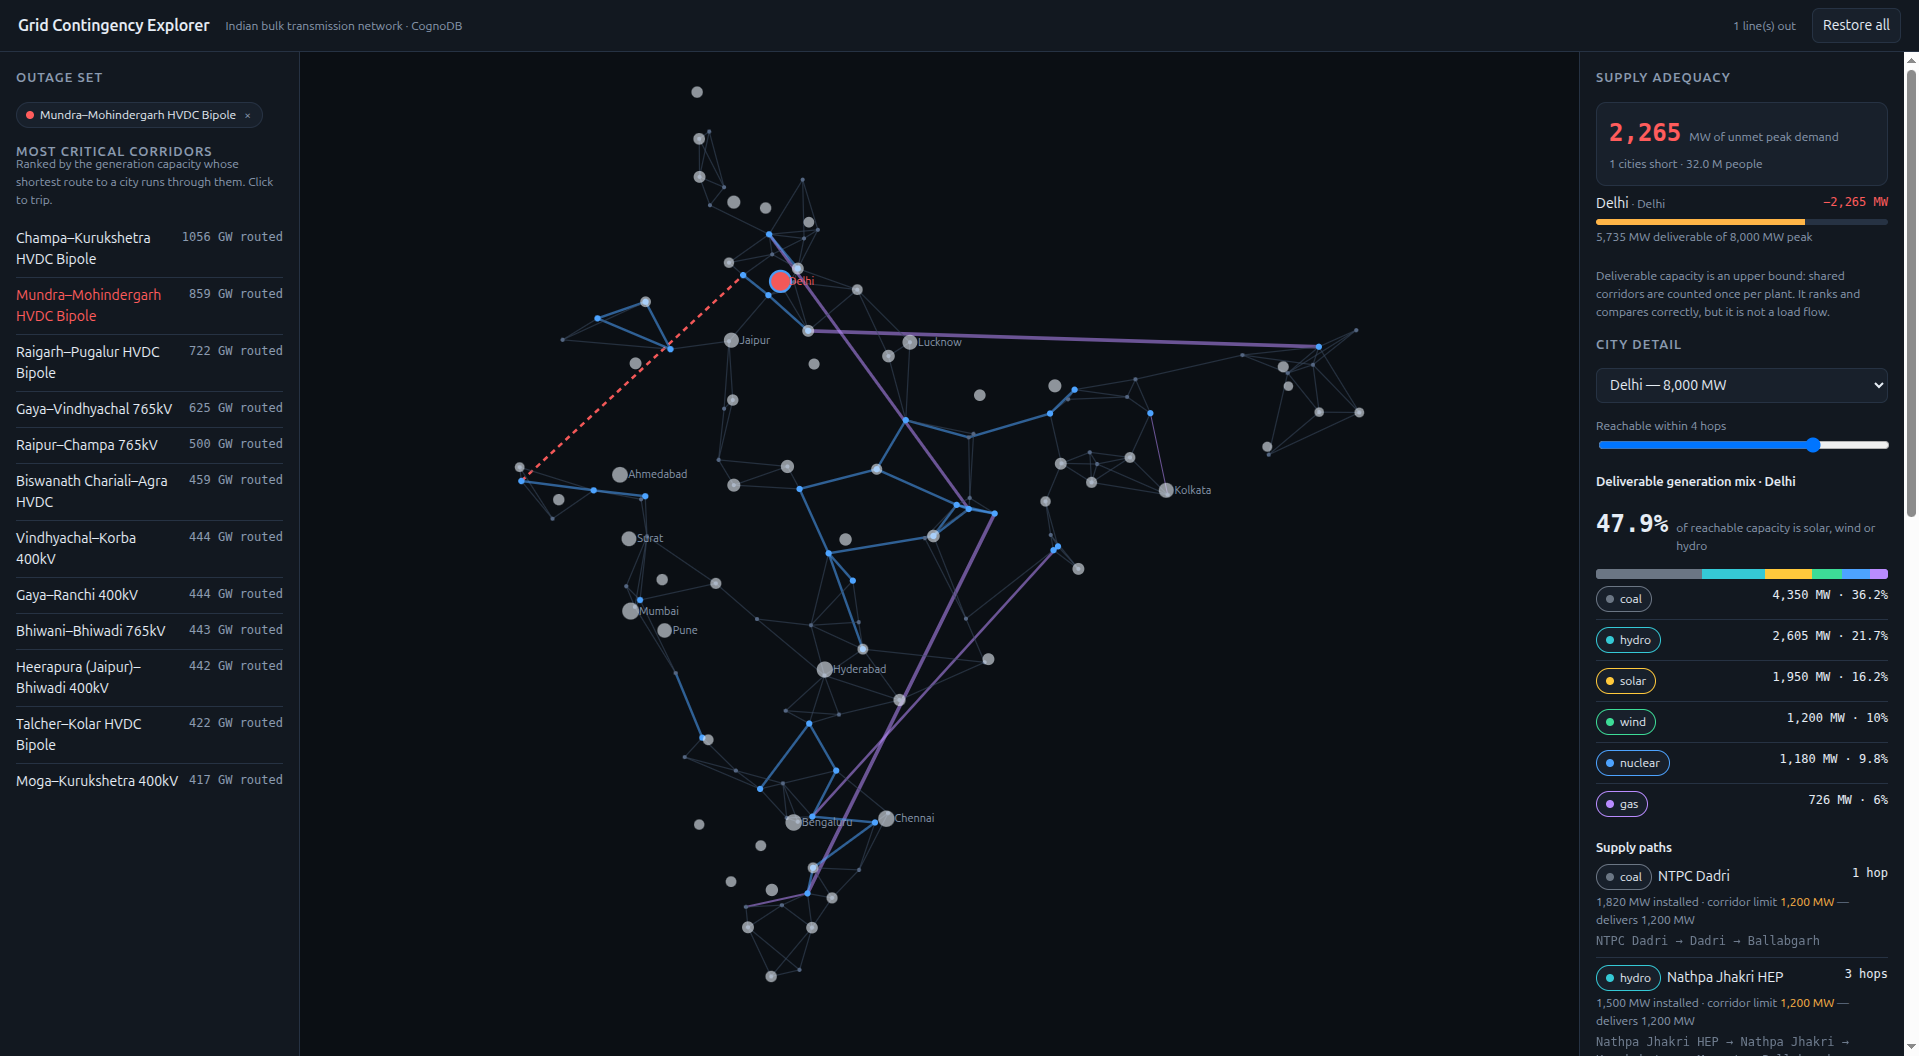
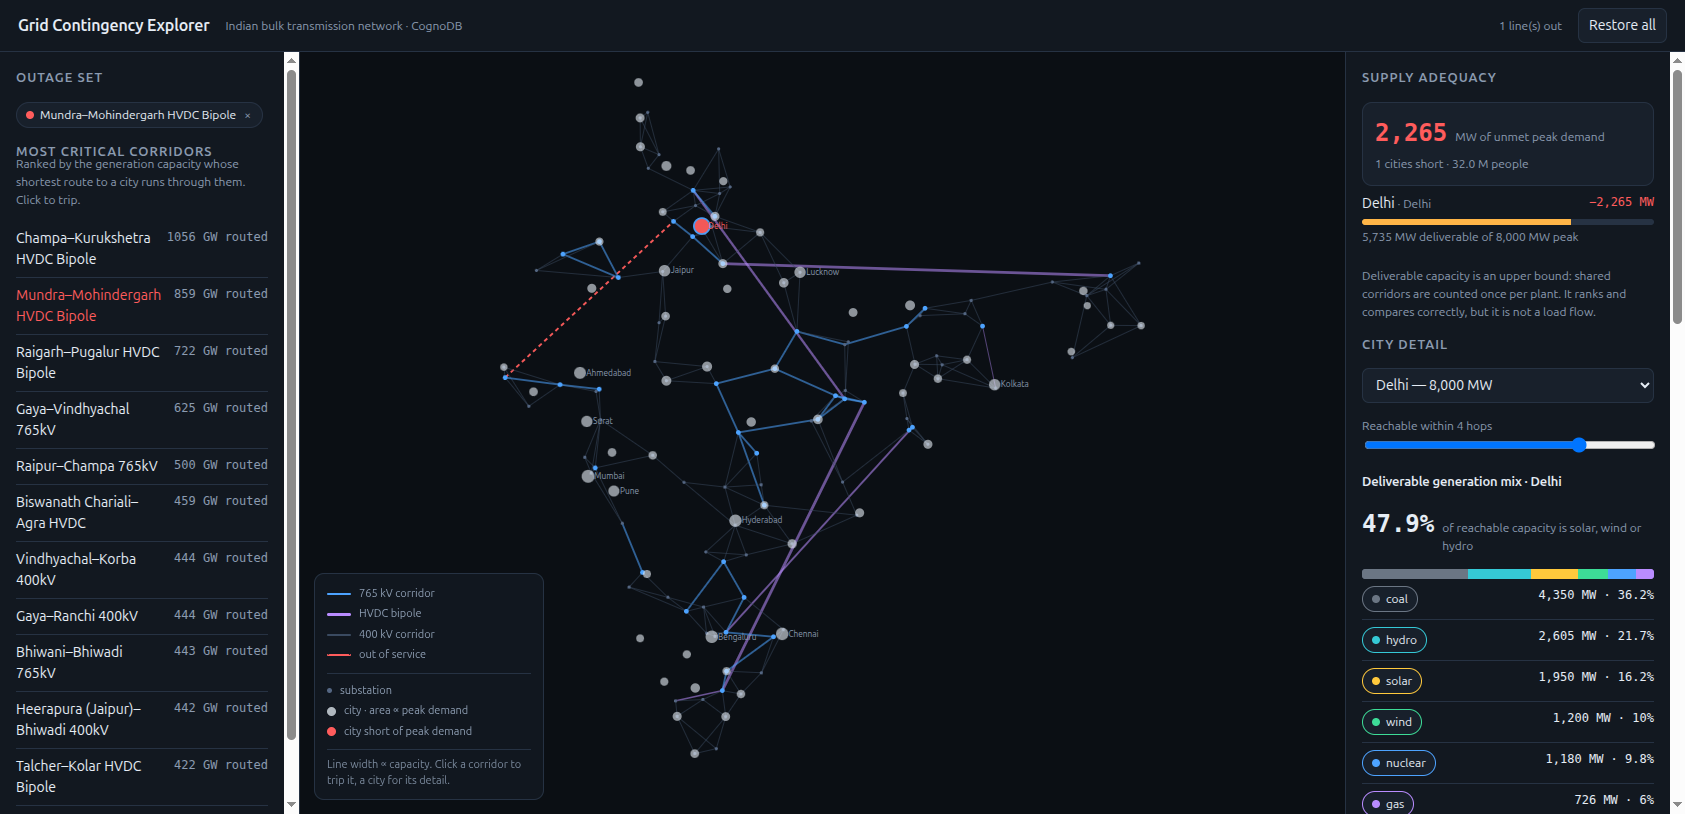
Add legend, demo links and screenshots for the brief
Audited the repo against the take-home brief; this closes what was
missing or stale.

Deliverables (§6):
- README carries the live Vercel and Render URLs, the API docs link and
  a cold-start warning, instead of burying the demo behind the deploy
  instructions. Verification snippet runs against the real pair.
- Three UI screenshots (at rest, tripped, supply-path panel) rather than
  one.
- docs/DEMO_SCRIPT.md with the shot list for the screen recording.
- Track Dockerfile and .dockerignore. They were untracked but are the
  single-service deploy path the README describes.

UI (§5.2):
- The map encoded five variables with nothing explaining them. Legend now
  covers line colour, width, dot size and the at-risk state.

Fixes:
- Panels.tsx printed a bare {3} for the adequacy hop limit -> ADEQUACY_HOPS,
  with a note that it mirrors the backend constant.
- queries.py docstring still described the old size(c) guard; code has used
  length(p) since the dialect fixes. Also spelled out that the only string
  composition is of fixed module constants, never request data (§5.1).

diff --git a/frontend/src/components/GridMap.tsx b/frontend/src/components/GridMap.tsx
@@ -30,6 +30,35 @@ const W = 1000
 const H = 1100
 const PAD = 40
 
+const HVDC = '#b98cff'
+const EHV = '#4da3ff'
+const AC400 = '#3a4a60'
+
+/**
+ * The map encodes five variables at once -- line colour, line thickness, dot
+ * size, dot colour and the dashed stroke -- and none of them is self-evident to
+ * someone who has not read the README. The legend is the difference between a
+ * picture and a chart.
+ */
+function Legend() {
+  return (
+    <div className="legend" aria-hidden="true">
+      <div className="legend-row"><span className="swatch" style={{ background: EHV }} />765 kV corridor</div>
+      <div className="legend-row"><span className="swatch" style={{ background: HVDC }} />HVDC bipole</div>
+      <div className="legend-row"><span className="swatch" style={{ background: AC400 }} />400 kV corridor</div>
+      <div className="legend-row">
+        <span className="swatch dashed" />out of service
+      </div>
+      <div className="legend-sep" />
+      <div className="legend-row"><span className="dot-swatch" style={{ background: '#546682', width: 5, height: 5 }} />substation</div>
+      <div className="legend-row"><span className="dot-swatch" style={{ background: 'rgba(230,237,245,0.75)' }} />city · area ∝ peak demand</div>
+      <div className="legend-row"><span className="dot-swatch" style={{ background: 'var(--danger)' }} />city short of peak demand</div>
+      <div className="legend-sep" />
+      <div className="legend-hint">Line width ∝ capacity. Click a corridor to trip it, a city for its detail.</div>
+    </div>
+  )
+}
+
 /**
  * Plain SVG rather than a tile map: no API key, no external network request at
  * runtime, and the geometry is the point here — the graph, not the basemap.
@@ -58,12 +87,13 @@ export default function GridMap({
 
   const strokeFor = (l: MapLine) => {
     if (tripped.has(l.line_id)) return 'var(--danger)'
-    if (l.hvdc) return '#b98cff'
-    if (l.voltage_kv >= 765) return '#4da3ff'
-    return '#3a4a60'
+    if (l.hvdc) return HVDC
+    if (l.voltage_kv >= 765) return EHV
+    return AC400
   }
 
   return (
+    <>
     <svg
       viewBox={`0 0 ${W} ${H}`}
       style={{ width: '100%', height: '100%', display: 'block' }}
@@ -111,7 +141,7 @@ export default function GridMap({
             <circle
               key={s.id} cx={p.x} cy={p.y}
               r={s.voltage_kv >= 765 ? 3.4 : 2.2}
-              fill={s.voltage_kv >= 765 ? '#4da3ff' : '#546682'}
+              fill={s.voltage_kv >= 765 ? EHV : '#546682'}
             >
               <title>{s.name} · {s.voltage_kv} kV · {s.state}</title>
             </circle>
@@ -150,5 +180,7 @@ export default function GridMap({
         })}
       </g>
     </svg>
+    <Legend />
+    </>
   )
 }

diff --git a/frontend/src/app/globals.css b/frontend/src/app/globals.css
@@ -151,3 +151,30 @@ ul.list li:last-child { border-bottom: 0; }
 }
 
 .empty { text-align: center; padding: 26px 12px; color: var(--muted); }
+
+/* Map legend. Overlaid in HTML rather than drawn in the SVG so it keeps a fixed
+   pixel size regardless of the viewBox scaling. */
+.legend {
+  position: absolute;
+  left: 14px;
+  bottom: 14px;
+  padding: 10px 12px;
+  background: rgba(18, 24, 32, 0.9);
+  border: 1px solid var(--line);
+  border-radius: var(--radius);
+  backdrop-filter: blur(4px);
+  font-size: 11px;
+  color: var(--muted);
+  pointer-events: none;
+  max-width: 230px;
+}
+.legend-row { display: flex; align-items: center; gap: 8px; padding: 2px 0; }
+.legend-sep { height: 1px; background: var(--line); margin: 7px 0; }
+.legend-hint { line-height: 1.45; opacity: 0.85; }
+.legend .swatch { width: 24px; height: 2.5px; border-radius: 2px; flex: none; }
+.legend .swatch.dashed {
+  background: none;
+  border-top: 2.5px dashed var(--danger);
+  height: 0;
+}
+.legend .dot-swatch { width: 9px; height: 9px; border-radius: 50%; flex: none; }

diff --git a/frontend/src/components/Panels.tsx b/frontend/src/components/Panels.tsx
@@ -2,6 +2,10 @@
 
 import type { AdequacyRow, CriticalLine, FuelMixRow, IslandedRow, SupplyPath } from '@/lib/types'
 
+/** Mirrors ADEQUACY_HOPS in backend/app/queries.py -- the depth the adequacy
+ *  sweep searches to. Stated in the copy so "secure" is not an unqualified claim. */
+const ADEQUACY_HOPS = 3
+
 const FUEL_COLOR: Record<string, string> = {
   coal: 'var(--coal)', lignite: 'var(--lignite)', gas: 'var(--gas)',
   nuclear: 'var(--nuclear)', hydro: 'var(--hydro)', solar: 'var(--solar)',
@@ -56,7 +60,7 @@ export function AdequacyPanel({
         </div>
         <p className="small muted" style={{ margin: '6px 0 0' }}>
           The network re-routes around this outage: every city still has enough
-          deliverable capacity within {3} hops to cover its peak demand.
+          deliverable capacity within {ADEQUACY_HOPS} hops to cover its peak demand.
         </p>
       </div>
     )

diff --git a/backend/app/queries.py b/backend/app/queries.py
@@ -5,7 +5,12 @@ Three conventions hold throughout:
  1. Nothing is interpolated. All user input arrives as bound parameters. The one
     thing Cypher genuinely cannot parameterise is the upper bound of a
     variable-length pattern (``*0..$n`` is a syntax error), so the bound is a
-    literal and the caller narrows it with ``size(c) <= $maxHops``.
+    literal and the caller narrows it with ``length(p) <= $maxHops``.
+
+    The only Cypher assembled from strings is the composition of the module
+    constants below (``_BOTTLENECK``, ``_SURVIVING``) into the statements. Those
+    are fixed source text, never request data: no value that arrives over HTTP
+    reaches a query except as a bound parameter.
 
  2. ``CONNECTS`` is stored in one direction but always traversed undirected
     (``-[c:CONNECTS*0..5]-``), because power flows either way along a line.

diff --git a/README.md b/README.md
@@ -7,7 +7,45 @@ longer be supplied to their peak demand — and which fuels they lose access to.
 over Bolt. **Next.js** front end, shipped as a static export. Deployed as two
 services: the frontend on **Vercel**, the API on **Render**.
 
+## Live demo
+
+| | |
+|---|---|
+| **Application** | <https://grid-contingency-explorer.vercel.app/> |
+| **API** | <https://grid-contigency-explorer.onrender.com/api/health> |
+| **Interactive API docs** | <https://grid-contigency-explorer.onrender.com/docs> |
+| **Screen recording** | _add the link here_ · shot list: [`docs/DEMO_SCRIPT.md`](docs/DEMO_SCRIPT.md) |
+
+The API runs on Render's free plan, which suspends a service after ~15 minutes
+of inactivity. **The first request after an idle period can take up to a
+minute** while the container starts; the UI says so rather than showing an
+unexplained spinner, and a scheduled workflow pings `/api/health` every ten
+minutes to keep it resident. Everything after the first request is fast.
+
+> One spelling trap, called out so nobody assumes a broken link: the Render
+> service is `grid-contigency-explorer` — missing an "n", a typo inherited from
+> the repository name — while the Vercel project is `grid-contingency-explorer`.
+> Both URLs above are correct as written.
+
+The database is a live CognoDB `c0` instance and will be kept running.
+
+## Screenshots
+
+**At rest — the whole network in service, every city supplied.**
+
+![The explorer at rest, no outages](docs/screenshot-rest.png)
+
+**Mundra–Mohindergarh HVDC tripped — Delhi goes 2,265 MW short.** The corridor
+is red and dashed, Delhi turns red on the map, and the coal share of what Delhi
+can draw on falls from 41.4% to 36.2%.
+
 ![The explorer with the Mundra–Mohindergarh HVDC bipole tripped](docs/screenshot-tripped.png)
+
+**The surviving routes.** Each row is one generator that can still reach Delhi:
+the fuel, the hop count, the bottleneck corridor on the best route, and the
+route itself. This panel is the variable-length traversal made visible.
+
+![Supply paths into Delhi after the outage](docs/screenshot-paths.png)
 
 ---
 
@@ -226,6 +264,9 @@ For development with hot reload on both sides, `./run-dev.sh` runs uvicorn on
   it, the bottleneck on each, and its deliverable fuel mix.
 - **The left panel ranks corridors** by the generation routed through them.
   Clicking one trips it.
+- **The legend, bottom left of the map**, decodes the five things the map encodes
+  at once: line colour (voltage class, HVDC, out of service), line width
+  (capacity), dot size (peak demand) and dot colour (short of demand).
 - Good ones to try: *Mundra–Mohindergarh HVDC* (strands Gujarat's coal from
   Delhi — 2,265 MW short), *Ballabgarh–Bhiwadi 400kV* (the largest single-line
   shortfall in the network), *Champa–Kurukshetra HVDC* (the most heavily loaded
@@ -250,7 +291,9 @@ backend/
 frontend/
   src/lib/api.ts     Typed fetch client; one place where an error becomes a state
   src/app/page.tsx   Client orchestration: outage set, selected city, hop limit
-  src/components/    GridMap (SVG) · Panels
+  src/components/    GridMap (SVG + legend) · Panels
+Dockerfile           Node build stage + Python runtime, for the single-service run
+render.yaml          Render Blueprint for the API service
 ```
 
 **One driver per process.** The Neo4j driver is a connection pool, not a
@@ -268,7 +311,10 @@ container that crash-loops out of sight.
 
 **No string-built Cypher.** Every parameter is bound. The one thing Cypher cannot
 parameterise — the upper bound of a variable-length pattern — is a literal in the
-query, narrowed by `length(p) <= $maxHops`.
+query, narrowed by `length(p) <= $maxHops`. `queries.py` does compose statements
+from two module constants (`_BOTTLENECK`, `_SURVIVING`) to avoid repeating the
+same fold in five places; those are fixed source text. No value that arrives over
+HTTP reaches a query except as a bound parameter.
 
 ## Writing for CognoDB, not Neo4j
 
@@ -389,10 +435,16 @@ frontend.
 ### 4. Verify the pair
 
 ```bash
-curl https://<service>.onrender.com/api/health
-curl -I -H "Origin: https://<project>.vercel.app" \
-     https://<service>.onrender.com/api/health   # expect access-control-allow-origin
+curl https://grid-contigency-explorer.onrender.com/api/health
+# -> {"status":"ok","counts":{"substations":112,"plants":49,"load_centres":60,"lines":230}}
+
+curl -I -H "Origin: https://grid-contingency-explorer.vercel.app" \
+     https://grid-contigency-explorer.onrender.com/api/health
+# -> access-control-allow-origin: https://grid-contingency-explorer.vercel.app
 ```
+
+Both were run against the live pair while writing this. The counts are the
+served graph, not a fixture.
 
 ### The free-tier cold start, and what is done about it
 
@@ -418,6 +470,16 @@ running uvicorn gives one process on one origin, with CORS irrelevant:
 ```bash
 cd frontend && npm run build
 cd ../backend && .venv/bin/uvicorn app.main:app --port 8000
+```
+
+[`Dockerfile`](Dockerfile) packages exactly that arrangement: a Node stage builds
+the static export, and the final image carries only the Python runtime plus the
+emitted files — no Node, no `node_modules`. The connection details stay outside
+the image and arrive from the host at runtime.
+
+```bash
+docker build -t grid-explorer .
+docker run --rm -p 8000:8000 --env-file .env grid-explorer
 ```
 
 ## One more portability note

diff --git a/docs/DEMO_SCRIPT.md b/docs/DEMO_SCRIPT.md
@@ -1,0 +1,54 @@
+# Screen recording — shot list
+
+Target length **90 seconds**, hard ceiling two minutes. Save the result as
+`docs/demo.mp4` (or upload it and put the link in the README's Live demo table).
+
+## Before you hit record
+
+1. **Wake the backend.** Open <https://grid-contigency-explorer.onrender.com/api/health>
+   and wait for the JSON. If you record the cold start, forty of your ninety
+   seconds are a spinner.
+2. **Load the app once** at <https://grid-contingency-explorer.vercel.app/> and
+   let the right panel finish, so the topology is cached in the API process.
+3. **Then reload** and start recording on a clean, warm page.
+4. Browser at **1600×1000 or wider**, zoom 100%. The layout is a three-column
+   grid that collapses below 1100px — a narrow window records the mobile
+   fallback, which is not the thing you want to show.
+5. Close other tabs, hide bookmarks, full-screen the window.
+
+## Shots
+
+| # | Time | What you do | What you say |
+|---|---|---|---|
+| 1 | 0:00–0:10 | Sit on the loaded page. Move the cursor slowly across the map. | "This is the Indian bulk transmission grid — 112 substations, 230 corridors, 49 power stations and 60 cities, held in CognoDB as a graph." |
+| 2 | 0:10–0:20 | Point at the legend, then at a thick purple line, then at the big circle on Delhi. | "Colour is voltage class, width is capacity, and the circles are cities sized by peak demand. Right now every city can be supplied." |
+| 3 | 0:20–0:35 | Click **Mundra–Mohindergarh HVDC Bipole** in the left panel. Let the panels settle. | "I'll take out the Mundra–Mohindergarh HVDC link — one of the longest DC corridors in the country." |
+| 4 | 0:35–0:48 | Cursor to the red **2,265** figure, then to Delhi turning red on the map. | "Delhi is now 2,265 megawatts short of its 8,000 megawatt peak — 32 million people. Nothing was precomputed; the outage is one query parameter and every route in the country re-planned." |
+| 5 | 0:48–1:00 | Scroll the right panel to **Deliverable generation mix**. | "Its fuel mix changed too — coal falls from 41 to 36 percent, because the Gujarat coal reached Delhi over that link." |
+| 6 | 1:00–1:15 | Keep scrolling to **Supply paths**. Hover one row so the route line is readable. | "And these are the surviving routes. Each row is a generator that can still reach Delhi: the hop count, the weakest corridor on the best route, and the route itself. That's a variable-length traversal — the reason this is a graph database and not a table." |
+| 7 | 1:15–1:25 | Click **Restore all** in the header. Everything returns to normal. | "Restore it, and the network is adequate again." |
+| 8 | 1:25–1:35 | Click **Ballabgarh–Bhiwadi 400kV** in the critical corridors list. | "One more — this single 400 kV line is the worst N‑1 outage in the whole network." |
+
+## Do not
+
+- Do not narrate the loading skeletons. If a panel is still loading, wait, then
+  speak. Silence reads better than "it's just loading".
+- Do not click a corridor directly on the map for the first trip. The click
+  target is an 11px invisible stroke and a miss on camera looks like a bug —
+  use the left panel list, which is a plain button. Save the map click for shot
+  8 if you want to show it.
+- Do not open DevTools.
+
+## If you want to show the error state too
+
+Worth ten seconds if you have room, because graceful failure is explicitly
+marked in the brief. Run the frontend locally against a dead API:
+
+```bash
+cd frontend
+NEXT_PUBLIC_API_BASE=http://localhost:9999 npm run dev
+```
+
+The page renders the "Database unreachable" banner with a working **Retry**.
+Say: "And if the database is unreachable, the UI says exactly that and offers a
+retry, rather than failing silently."
